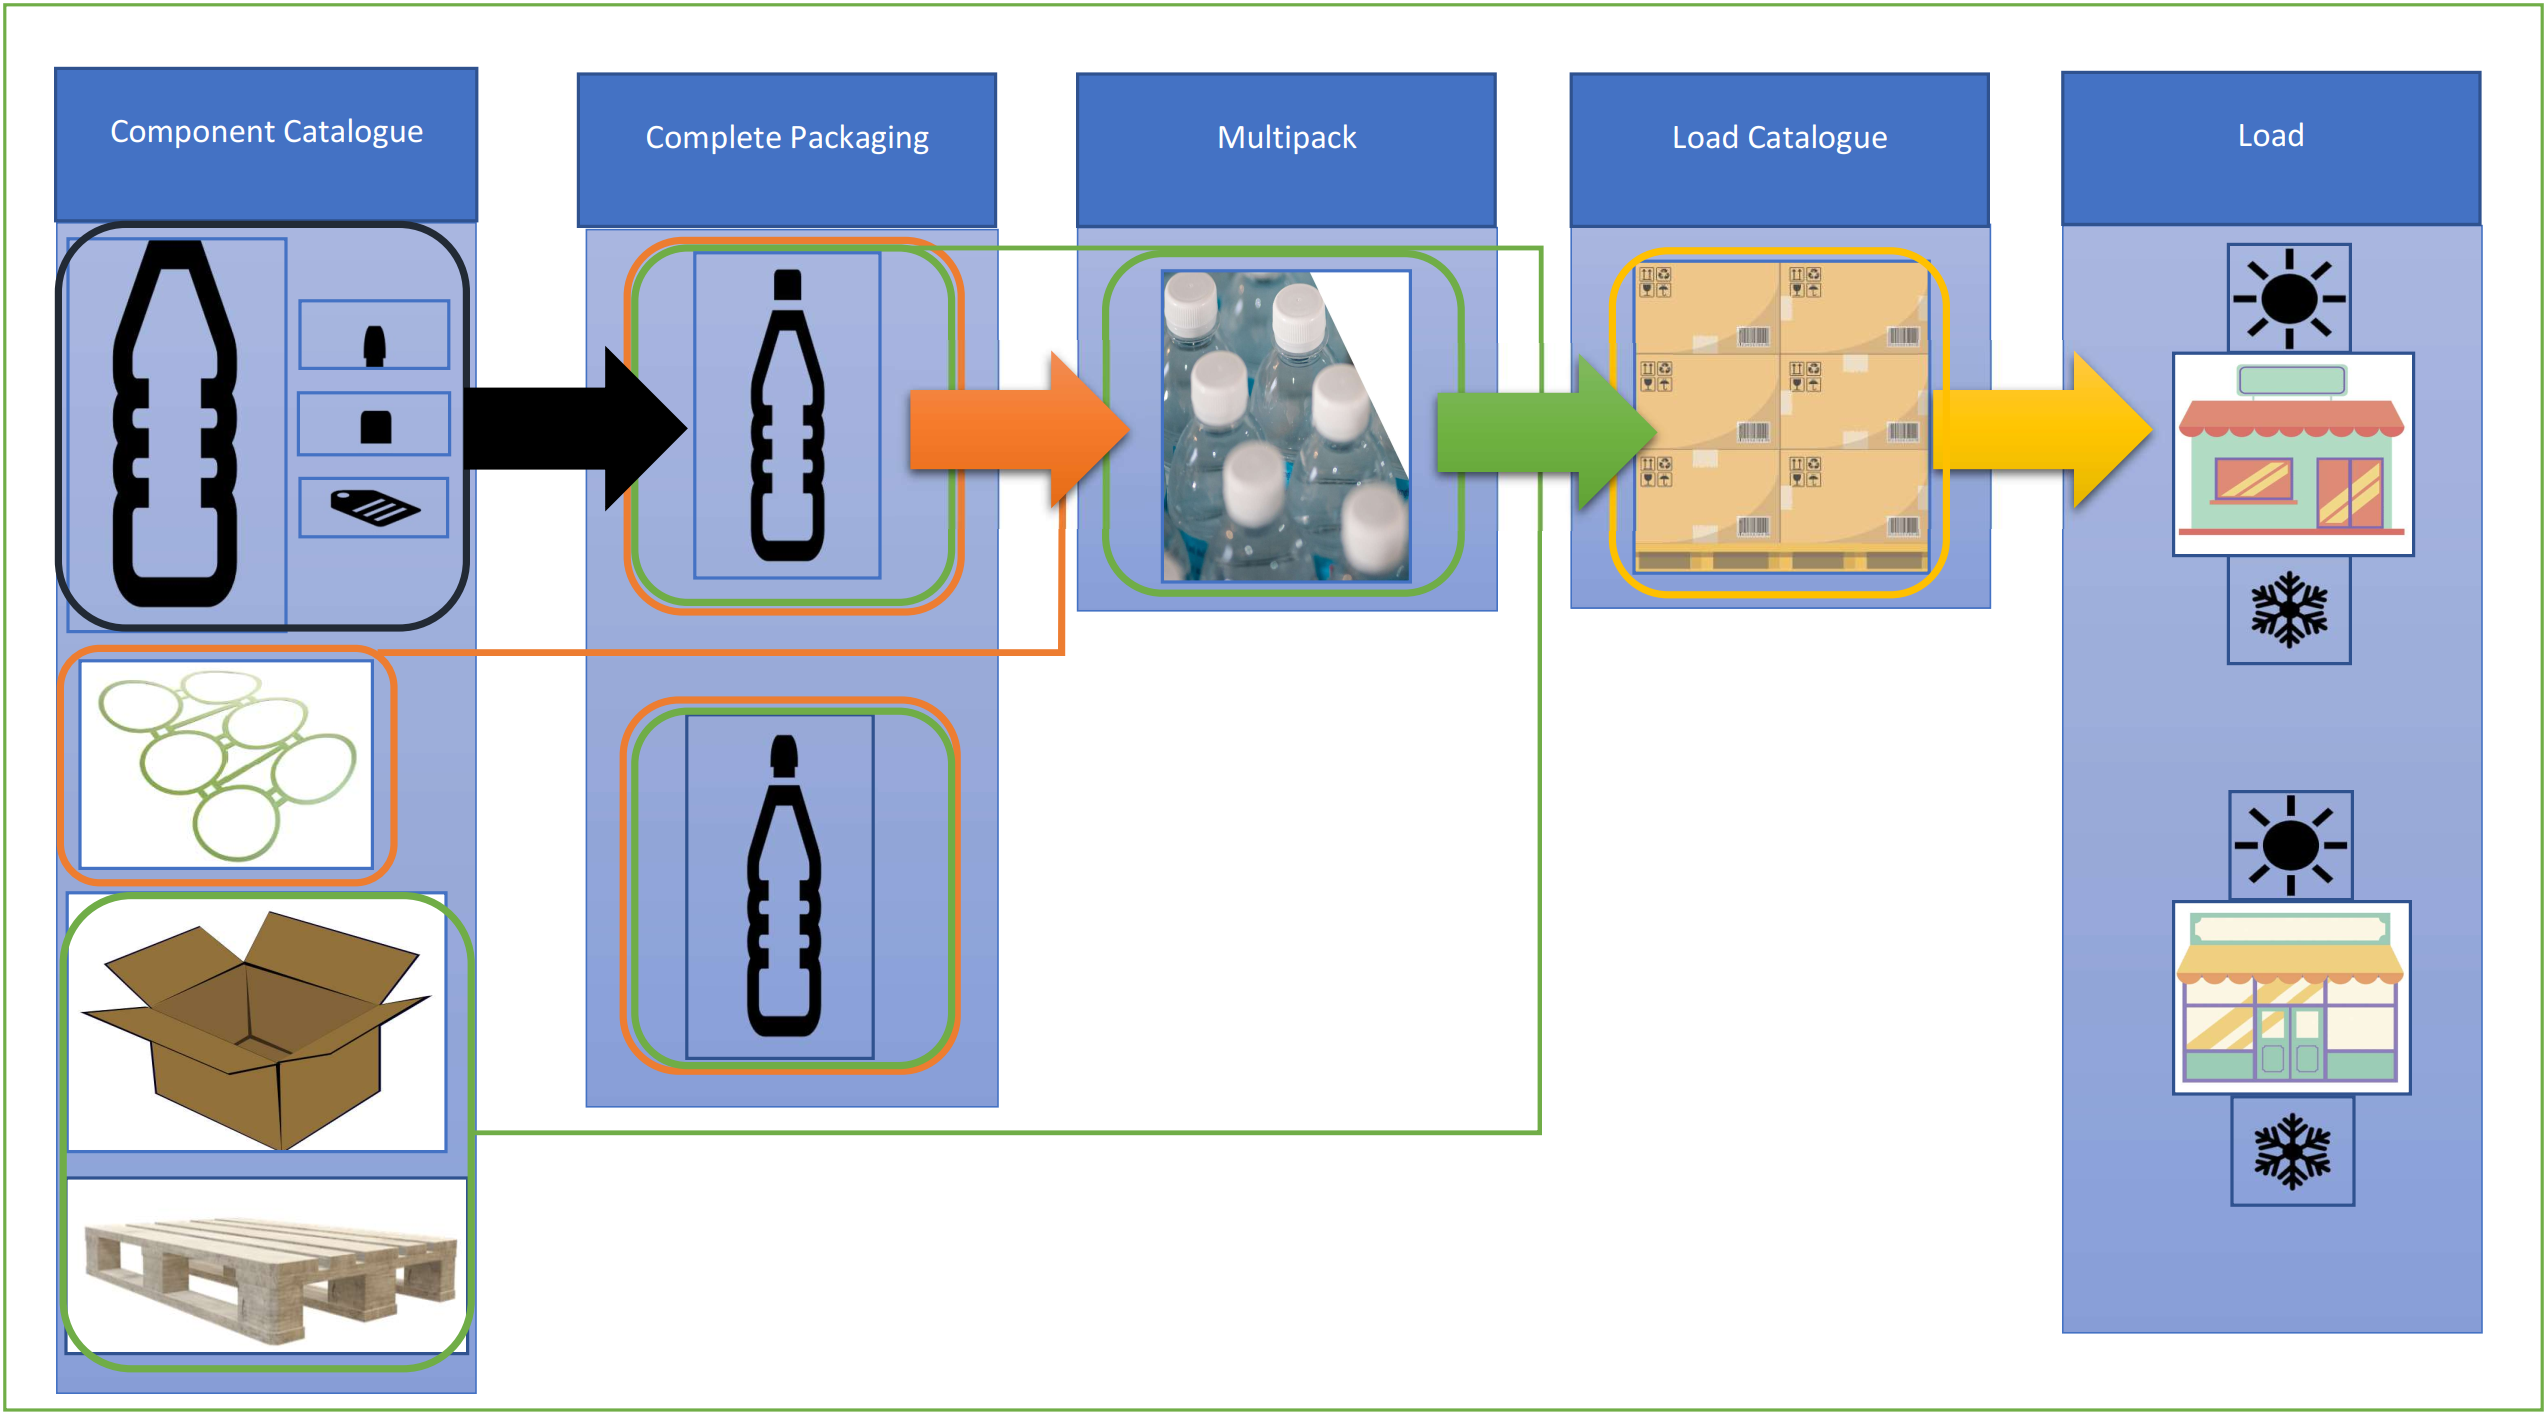
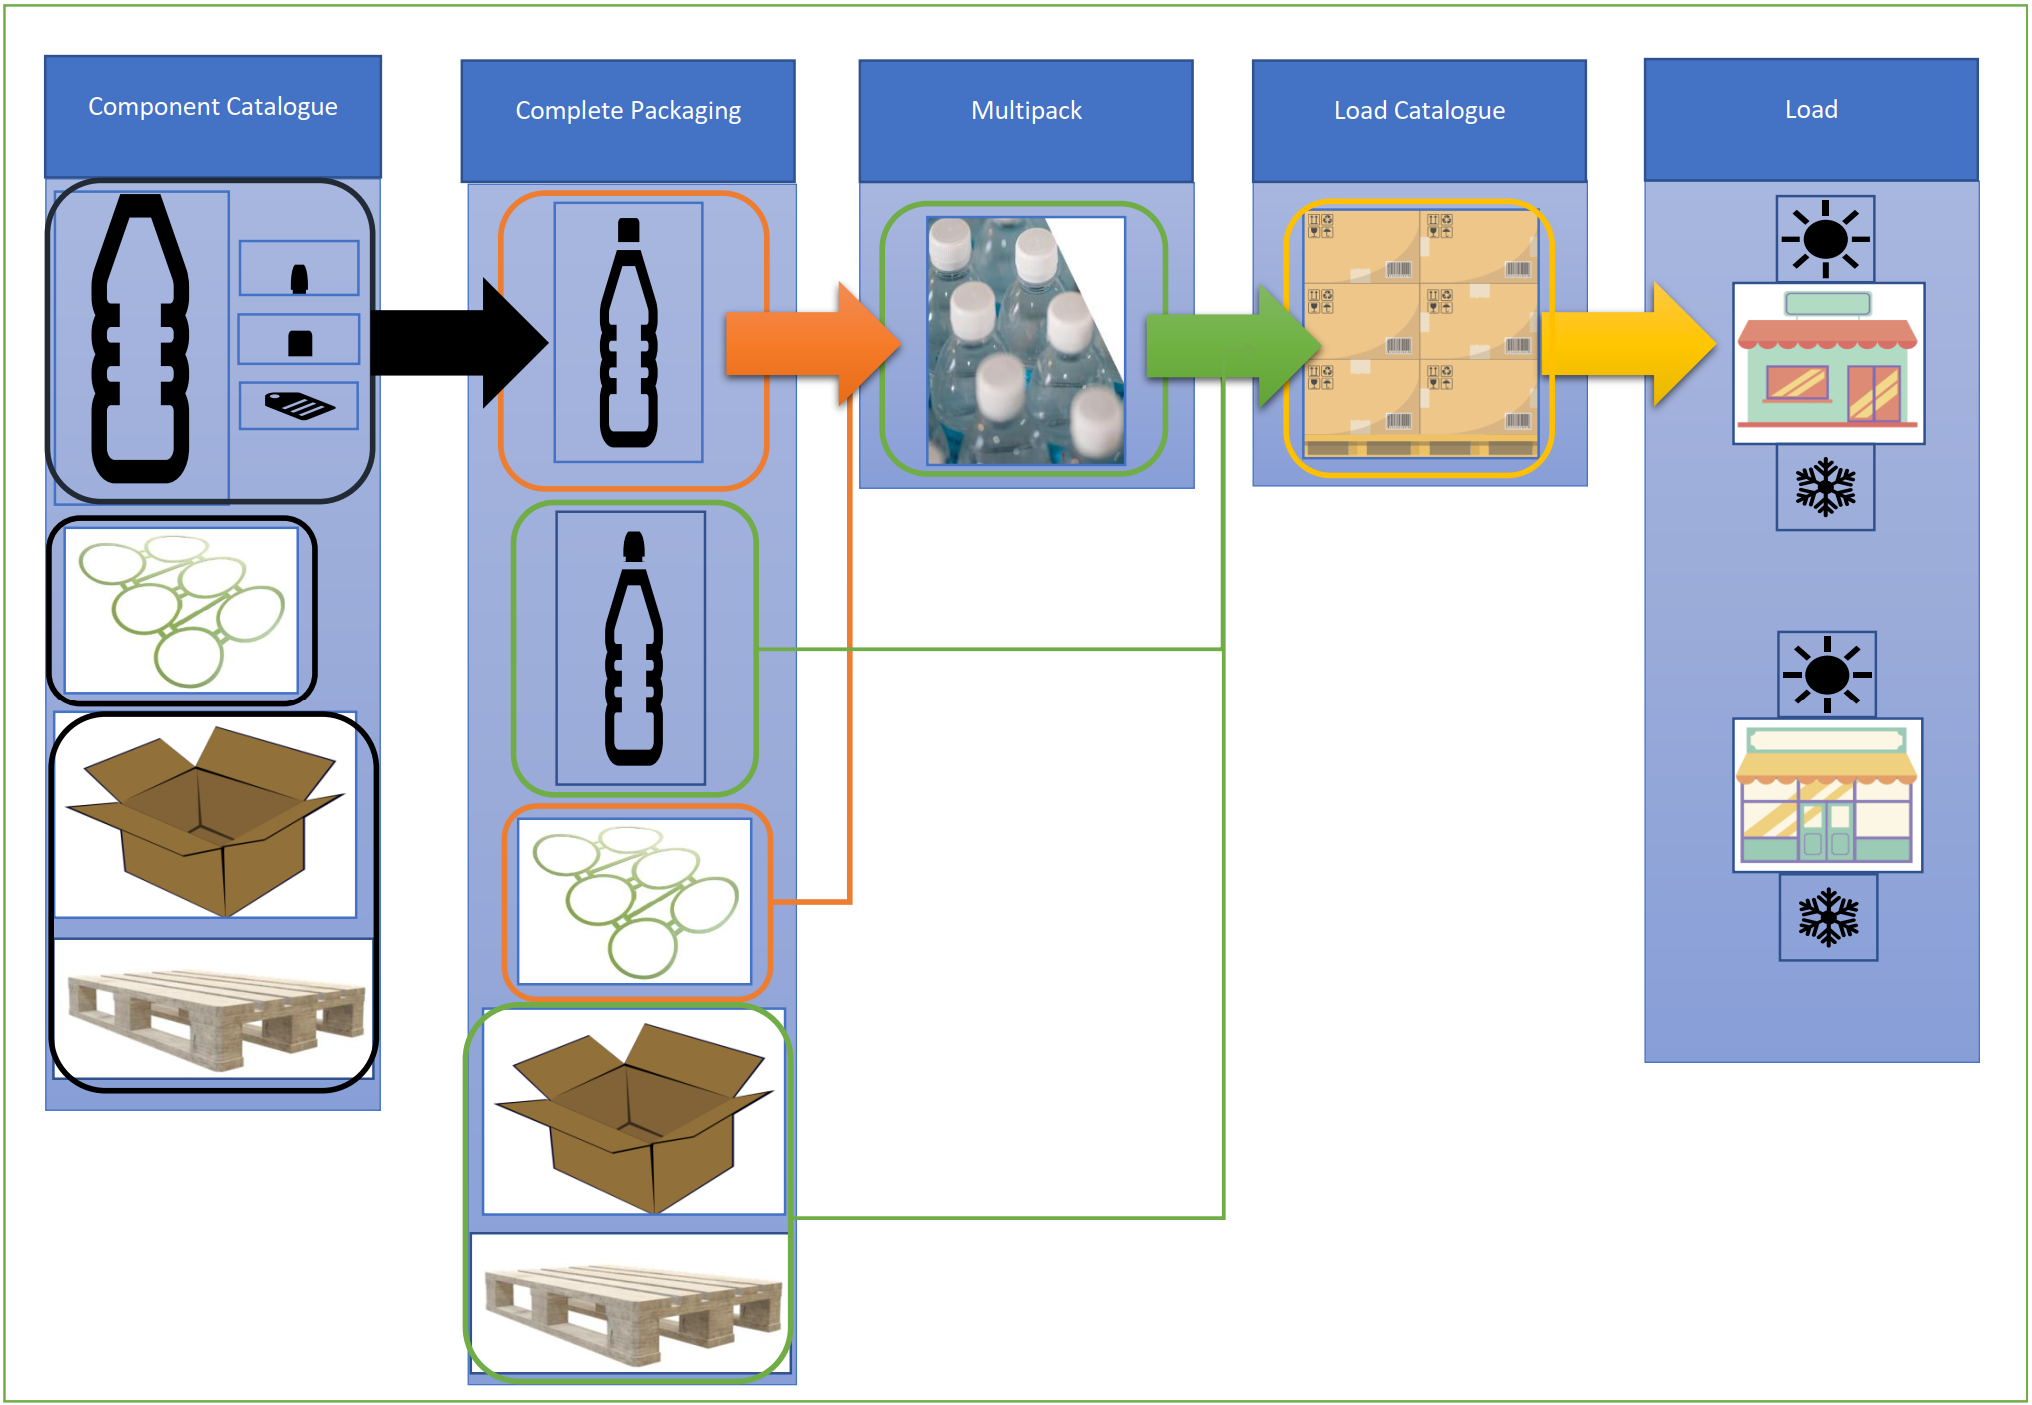
amend diagram

diff --git a/docs/1_Start_Here/1_3_Data_Flow.md b/docs/1_Start_Here/1_3_Data_Flow.md
@@ -1,6 +1,10 @@
 # Data Flow
 
-Here, we show two examples of how data could flow using the open standard. This tells the story of how water bottles are created with a packaging manufacturer, how that packaging manufacturer sends their packaging to a packer/filler (Figure 1), and then how that packer/filler will put packaging together, filled with a product and then send them to a retailer (Figure 2). 
+Here, we show two examples of how data could flow using the open standard. This tells the story of how water bottles are created with a packaging manufacturer, how that packaging manufacturer sends their packaging to a packer/filler (Figure 1), and then how that packer/filler will put packaging together, filled with a product and then send them to a retailer (Figure 2). In both figures: 
+- black represents the component catalogue items used to create complete packaging
+- orange represents the complete packaging items used to create multipacks
+- green represents the component catalogue, multipack, or complete packaging items used to create the load catalogue item
+- yellow represents the load catalogue item made to create a load
 
 ![example1](../images/data_flow_example1.png)
 *Figure 1: From a packaging manufacturer to a packer/filler*
@@ -12,4 +16,6 @@ Another packaging manufacturer would then separately create the plastic rings an
 ![example1](../images/data_flow_example2.png)
 *Figure 2: From a packer/filler to a retailer*
 
-Instead of re-entering data, a packer/filler would pull the data from the packaging manufacturer for the water bottle components. Using the component catalogue, the packer/filler could create two different types of water bottles (with the two different kinds of lids). The packer/filler uses the components to create the two different complete packaging, sealed bottles with lids, which is filled with the product (in this case, water). In addition to creating single purchase water bottle items, the packer/filler can use the same created water bottles, along with the plastic ring to create a multipack. The two different types of individual use bottles along with the multipack can be combined onto a mixed pallet with boxes to create a load catalogue. As with the packaging manufacturer, the packer/filler can use the commonly created load catalogue items to send to multiple retail stores. They would then update how many times they sent the load to the retailer during certain reporting periods. 
+Instead of re-entering data, a packer/filler would pull the data from the packaging manufacturer for the water bottle components. Using the component catalogue, the packer/filler could create two different types of water bottles (with the two different kinds of lids). The packer/filler uses the components to create the two different complete packaging, sealed bottles with lids, which is filled with the product (in this case, water). Notice that even though the plastic ring is alone in complete packaging. The reason for this is to fill in data related to this component, even though alone. For instance, the level of packaging (primary, secondary, shipment, transit) relies on how the complete packaging is filled and used, which is contained in the complete packaging csv. 
+
+In addition to creating single purchase water bottle items, the packer/filler can use the same created water bottles, along with the plastic ring to create a multipack. Notice how the first type of lid is used solely for creating a multipack, and the second type of lid is used to create an individual unit. The individual use bottles along with the multipack can be combined onto a mixed pallet with boxes to create a load catalogue. As with the packaging manufacturer, the packer/filler can use the commonly created load catalogue items to send to multiple retail stores. They would then update how many times they sent the load to the retailer during certain reporting periods. 
